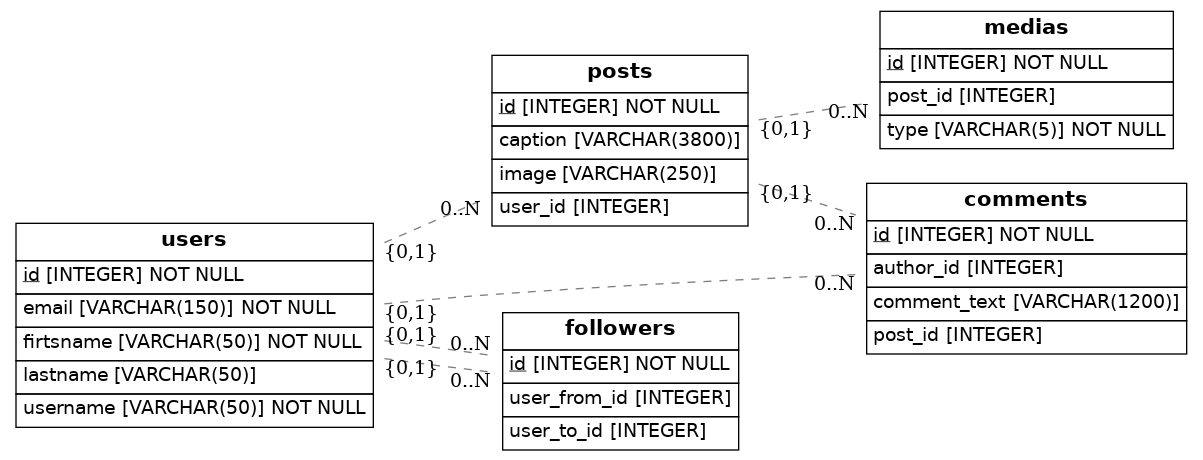
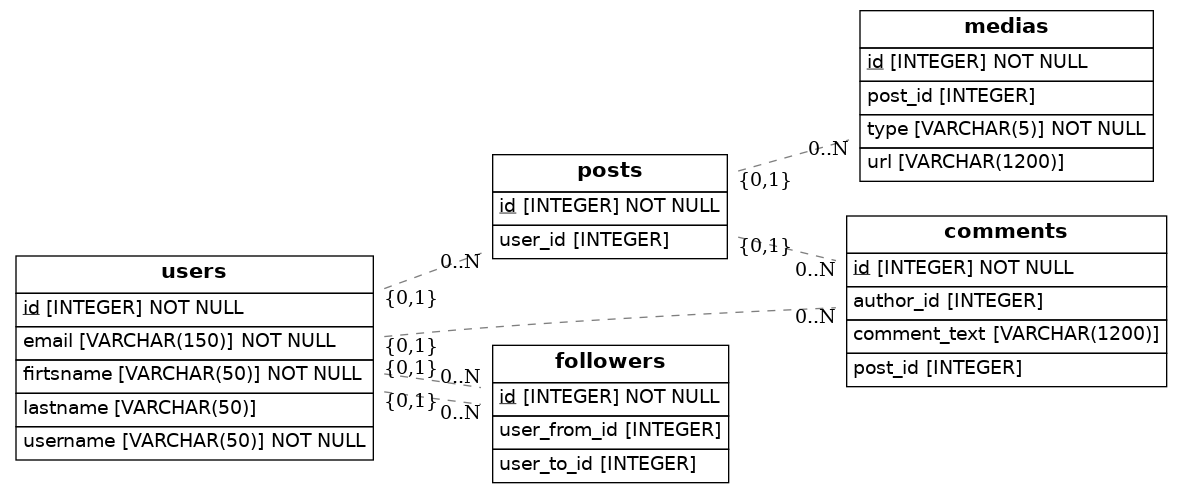
correcciones

Changed region(s): [[0.0, 0.0, 1.0, 1.0], [0.5782, 0.6087, 0.6391, 0.6391]]

diff --git a/src/models.py b/src/models.py
@@ -23,8 +23,6 @@ class Post(Base):
     # Here we define columns for the table address.
     # Notice that each column is also a normal Python instance attribute.
     id = Column(Integer, primary_key=True)
-    caption = Column(String(3800))
-    image = Column(String(250)) #Url de la imagen del post
     user_id = Column(Integer, ForeignKey('users.id'))
     user = relationship(User)
     
@@ -55,6 +53,7 @@ class Media(Base):
     __tablename__ = 'medias'
     id = Column(Integer, primary_key=True)
     type = Column(Enum(MediaType), nullable=False)
+    url = Column(String(1200))
     post_id = Column(Integer, ForeignKey('posts.id'))
     user = relationship(User)
 
